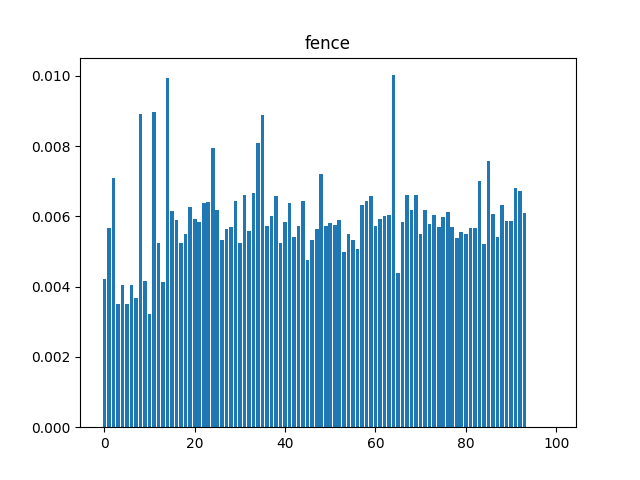
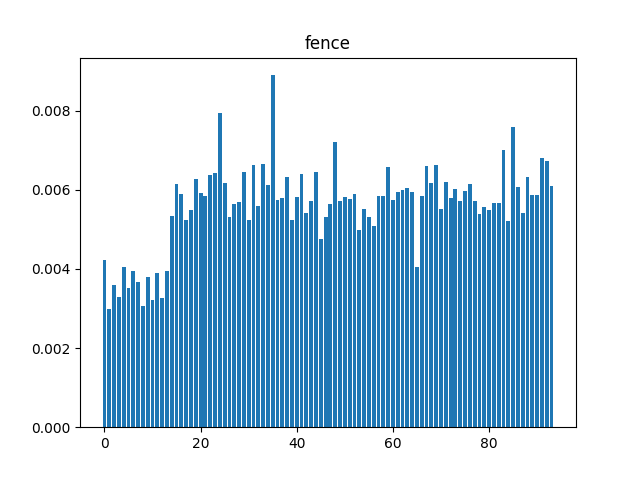
Remove Bugged Frames from Eval

diff --git a/polycraft_nov_det/baselines/eval_episode.py b/polycraft_nov_det/baselines/eval_episode.py
@@ -28,17 +28,27 @@ def eval_from_save(output_folder):
     novel_scores = torch.load(folder_path / "novel_scores.pt")
     paths = np.load(folder_path / "paths.npy")
     # for each novelty type produce list of episode scores in order of occurrence
-    nov_type_to_ep_scores = {}
+    nov_type_to_scores = {}
     for novel_score, path in zip(novel_scores, paths):
-        nov_type, ep_num, frame_num = Path(path).parts
+        path = Path(path)
+        nov_type, ep_num, image_name = path.parts
         ep_num = int(ep_num)
-        frame_num = int(frame_num)
-        # assign episode max score from frames
-        ep_scores = nov_type_to_ep_scores.get(nov_type, torch.zeros((100,)))
-        ep_scores[ep_num] = max(ep_scores[ep_num], novel_score)
-        nov_type_to_ep_scores[nov_type] = ep_scores
+        frame_num = int(path.stem)
+        # get list of episodes and pad if needed
+        ep_scores = nov_type_to_scores.get(nov_type, [])
+        ep_scores += [torch.tensor([])] * (ep_num - len(ep_scores) + 1)
+        # pad list of scores and assign values
+        if frame_num - len(ep_scores[ep_num]) + 1 > 0:
+            ep_scores[ep_num] = torch.hstack(
+                (ep_scores[ep_num], torch.zeros((frame_num - len(ep_scores[ep_num]) + 1,))))
+        ep_scores[ep_num][frame_num] = novel_score
+        nov_type_to_scores[nov_type] = ep_scores
     # visualize trials
-    for nov_type, ep_scores in nov_type_to_ep_scores.items():
+    for nov_type, ep_scores in nov_type_to_scores.items():
+        # remove last frame in each episode due to bug
+        ep_scores = [frame_scores[:-1] for frame_scores in ep_scores]
+        # reduce episode to max score from frames
+        ep_scores = [torch.max(frame_scores) for frame_scores in ep_scores]
         # TODO add lines for max/min pre/post novelty?
         plt.bar(range(len(ep_scores)), ep_scores)
         plt.title(nov_type)
